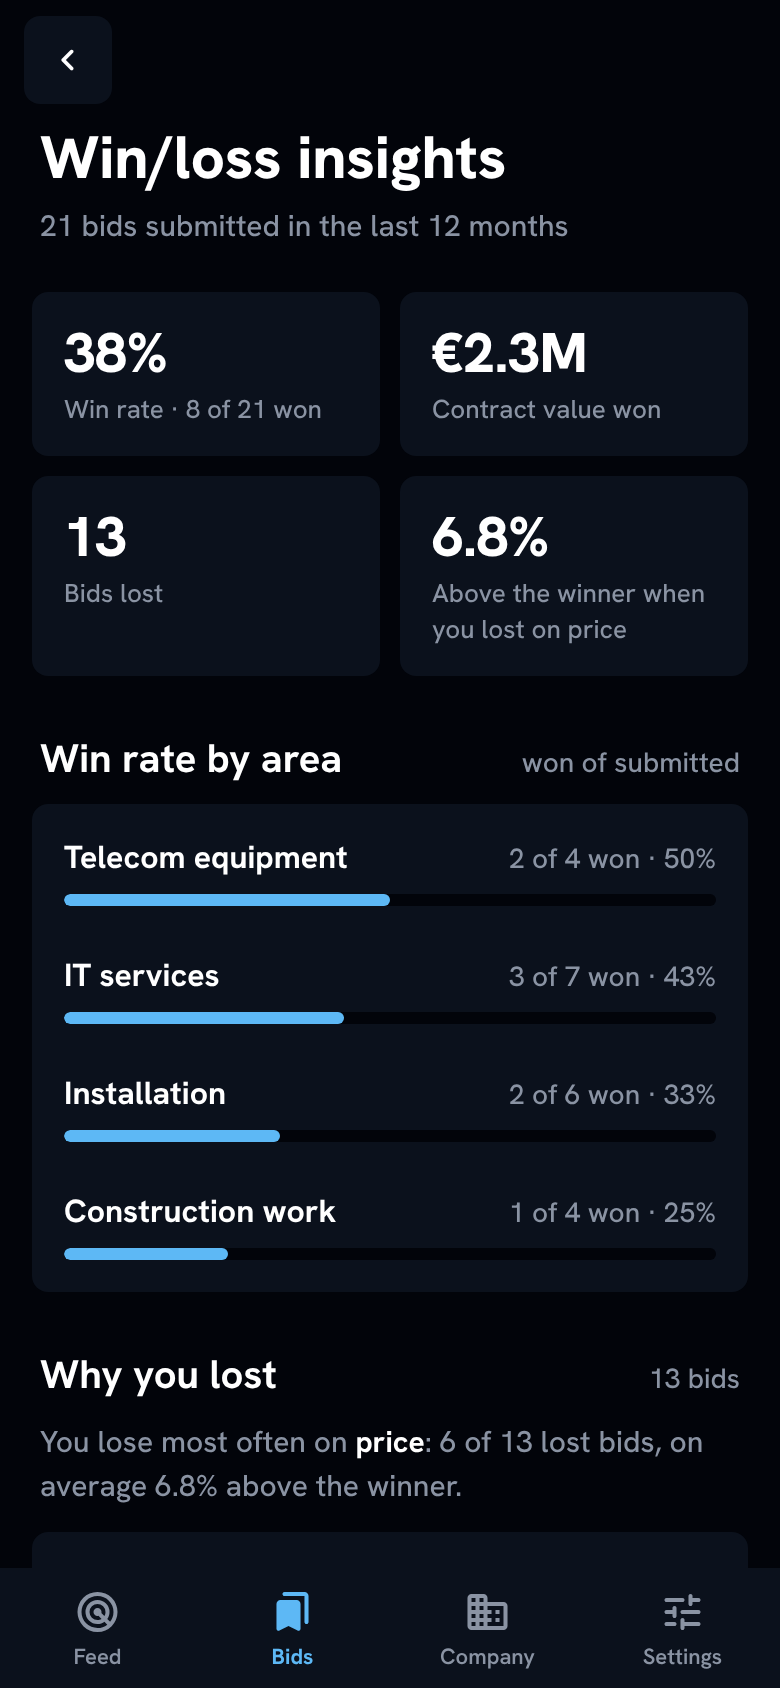
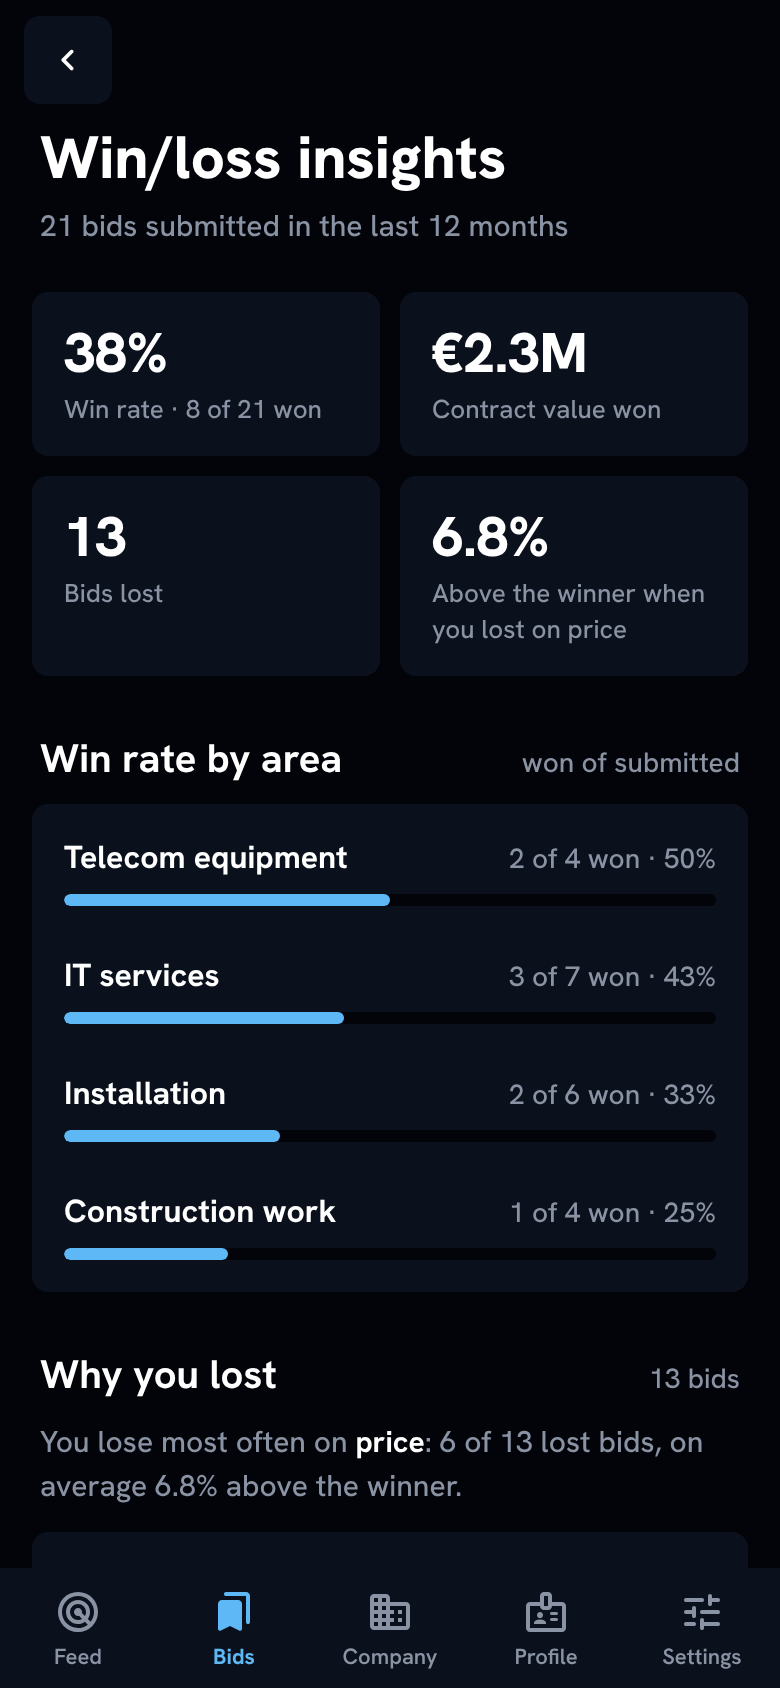
Docs: Win/loss and Bids frames with the five-tab bar
Re-took docs/ui/insights*, light-insights, bids-stages, bids-empty and light-bids from the merged main (the Profile tab adds a fifth tab), and moved the UI_DESIGN.md frame map to the smoke test's current numbers.

Claude-Session: https://claude.ai/code/session_016aXUkxRLJ1JnuVk633EwSt

diff --git a/UI_DESIGN.md b/UI_DESIGN.md
@@ -134,5 +134,5 @@ Sizes and where each control is used: [`SKELETON.md`](SKELETON.md) §5.
 ## 6. Keeping the screenshots current
 
 - The storyboard frames come from `node tests/demo-record.js` (it rewrites `docs/demo/`).
-- The other frames are copies of what `node tests/smoke.js <folder>` writes (`<scheme>-NN-<name>.png`, dark by default; `SMOKE_ONLY=light` for the light ones): `docs/ui/reading.png` ← `dark-02-reading`, `check-profile` ← `dark-03-check-profile`, `tender-loading` ← `dark-05-detail-loading`, `tender-go` ← `dark-06-detail-go`, `tender-nogo` ← `dark-08-detail-nogo`, `skip-sheet` ← `dark-15-skip-sheet`, `tender-saved` ← `dark-17-saved`, `bids-stages` ← `dark-18-bids`, `insights` ← `dark-19-insights`, `insights-full` ← `dark-20-insights-full`, `about` ← `dark-21-settings`, `tender-maybe` ← `dark-23-detail-maybe`, `tender-closed` ← `dark-24-detail-closed`, `feed-closed` ← `dark-25-feed-closed`, `feed-offline` ← `dark-26-feed-offline`, `not-found` ← `dark-27-not-found`, `bids-empty` ← `dark-28-bids-empty`, `company-iso-alone` ← `dark-29-company-iso-alone` (numbers after 18 moved by two when the Win/loss frames were added on 5 Nov); `light-feed` ← `light-04-feed`, `light-tender-nogo` ← `light-08-detail-nogo`, `light-sheet-check` ← `light-10-sheet-check`, `light-company-rescore` ← `light-13-company-rescore`, `light-bids` ← `light-18-bids`, `light-insights` ← `light-19-insights`. The Win/loss frames in `docs/ui/` were taken without the "Saved to Bids" toast that the smoke path leaves on screen.
+- The other frames are copies of what `node tests/smoke.js <folder>` writes (`<scheme>-NN-<name>.png`, dark by default; `SMOKE_ONLY=light` for the light ones): `docs/ui/reading.png` ← `dark-02-reading`, `check-profile` ← `dark-03-check-profile`, `tender-loading` ← `dark-05-detail-loading`, `tender-go` ← `dark-06-detail-go`, `tender-nogo` ← `dark-08-detail-nogo`, `skip-sheet` ← `dark-15-skip-sheet`, `tender-saved` ← `dark-17-saved`, `bids-stages` ← `dark-18-bids`, `insights` ← `dark-19-insights`, `insights-full` ← `dark-20-insights-full`, `about` ← `dark-22-settings`, `tender-maybe` ← `dark-24-detail-maybe`, `tender-closed` ← `dark-25-detail-closed`, `feed-closed` ← `dark-26-feed-closed`, `feed-offline` ← `dark-27-feed-offline`, `not-found` ← `dark-28-not-found`, `bids-empty` ← `dark-29-bids-empty`, `company-iso-alone` ← `dark-30-company-iso-alone` (on 5 Nov the numbers after 18 moved by two for the Win/loss frames and by one more for the Profile tab's `dark-21-profile`); `light-feed` ← `light-04-feed`, `light-tender-nogo` ← `light-08-detail-nogo`, `light-sheet-check` ← `light-10-sheet-check`, `light-company-rescore` ← `light-13-company-rescore`, `light-bids` ← `light-18-bids`, `light-insights` ← `light-19-insights`. The Win/loss frames in `docs/ui/` were taken without the "Saved to Bids" toast that the smoke path leaves on screen.
 - A change that alters how a screen looks updates its screenshot and its wireframe in [`SKELETON.md`](SKELETON.md) in the same commit.
